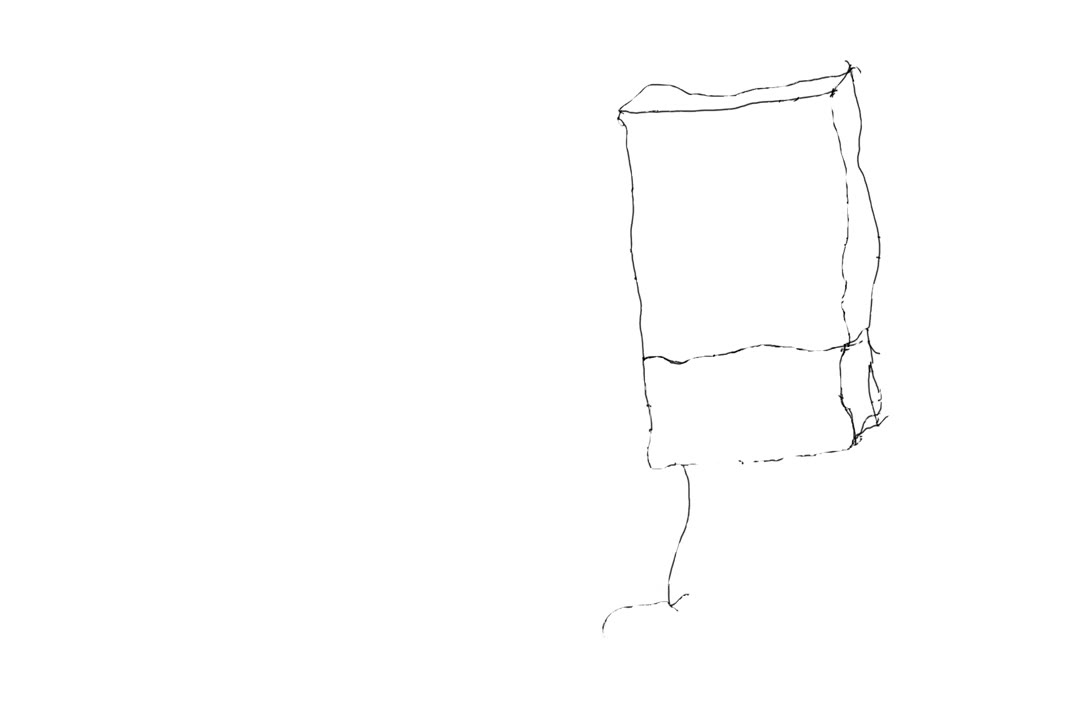
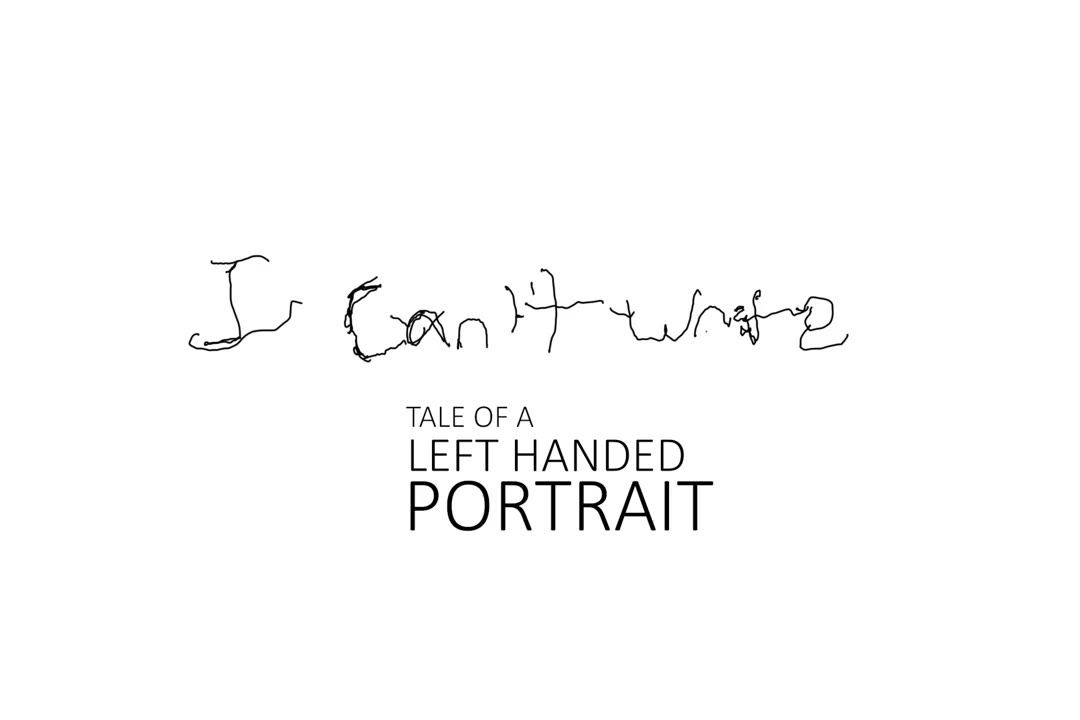
Use chosen frames as posters/artwork for I Can't Write and Cargo Jort
- I Can't Write: 17s title-card frame becomes the video poster, the
  detail-page hero (logo-title), and the homepage logo tile.
- Cargo Jort Interview: 25s handshake frame becomes the video poster
  and the homepage image tile (replacing the blank placeholder).

diff --git a/index.html b/index.html
@@ -600,7 +600,8 @@
 
       <li>
         <a class="work-item" href="i-cant-write.html">
-          <div class="work-media work-media--blank">
+          <div class="work-media work-media--logo">
+            <img src="video/i-cant-write.jpg" alt="I Can't Write">
             <div class="work-overlay">
               <h2 class="work-title">I Can&rsquo;t Write</h2>
               <p class="work-desc">Experimental Animation</p>
@@ -635,7 +636,8 @@
 
       <li>
         <a class="work-item" href="cargo-jort-interview.html">
-          <div class="work-media work-media--blank">
+          <div class="work-media">
+            <img src="video/cargo-jort-interview.jpg" alt="Cargo Jort Interview">
             <div class="work-overlay">
               <h2 class="work-title">Cargo Jort Interview</h2>
               <p class="work-desc">Documentary Interview</p>

diff --git a/i-cant-write.html b/i-cant-write.html
@@ -38,6 +38,8 @@
     font-size: clamp(2.4rem, 6vw, 5rem); font-weight: 500; line-height: 1.02;
     letter-spacing: -0.02em; margin-bottom: 0.6rem;
   }
+  .logo-title { margin: 0 0 1.4rem; }
+  .logo-title img { display: block; width: 100%; max-width: 620px; height: auto; }
   .subtitle {
     font-size: clamp(1rem, 2vw, 1.3rem); font-weight: 300; font-style: italic;
     color: var(--muted); margin-bottom: 1.8rem;
@@ -79,8 +81,7 @@
   </header>
   <main class="stage">
     <p class="eyebrow">Video &middot; Experimental Animation</p>
-    <h1>I Can&rsquo;t Write</h1>
-    <p class="subtitle">Tale of a Left-Handed Portrait</p>
+    <h1 class="logo-title"><img src="video/i-cant-write.jpg" alt="I Can't Write — Tale of a Left-Handed Portrait"></h1>
     <p class="premise">An After Effects piece &mdash; a scribbled &ldquo;DoodleBob&rdquo; figure, rotoscoped footage, a French ballad, and dark, ironic text (&ldquo;imprisoned in my own Bastille&rdquo;).</p>
     <div class="meta"><span>Run time 2:56</span><span class="sep">/</span><span>Motion graphics &middot; Rotoscope &middot; Experimental</span></div>
     <figure class="video-player">